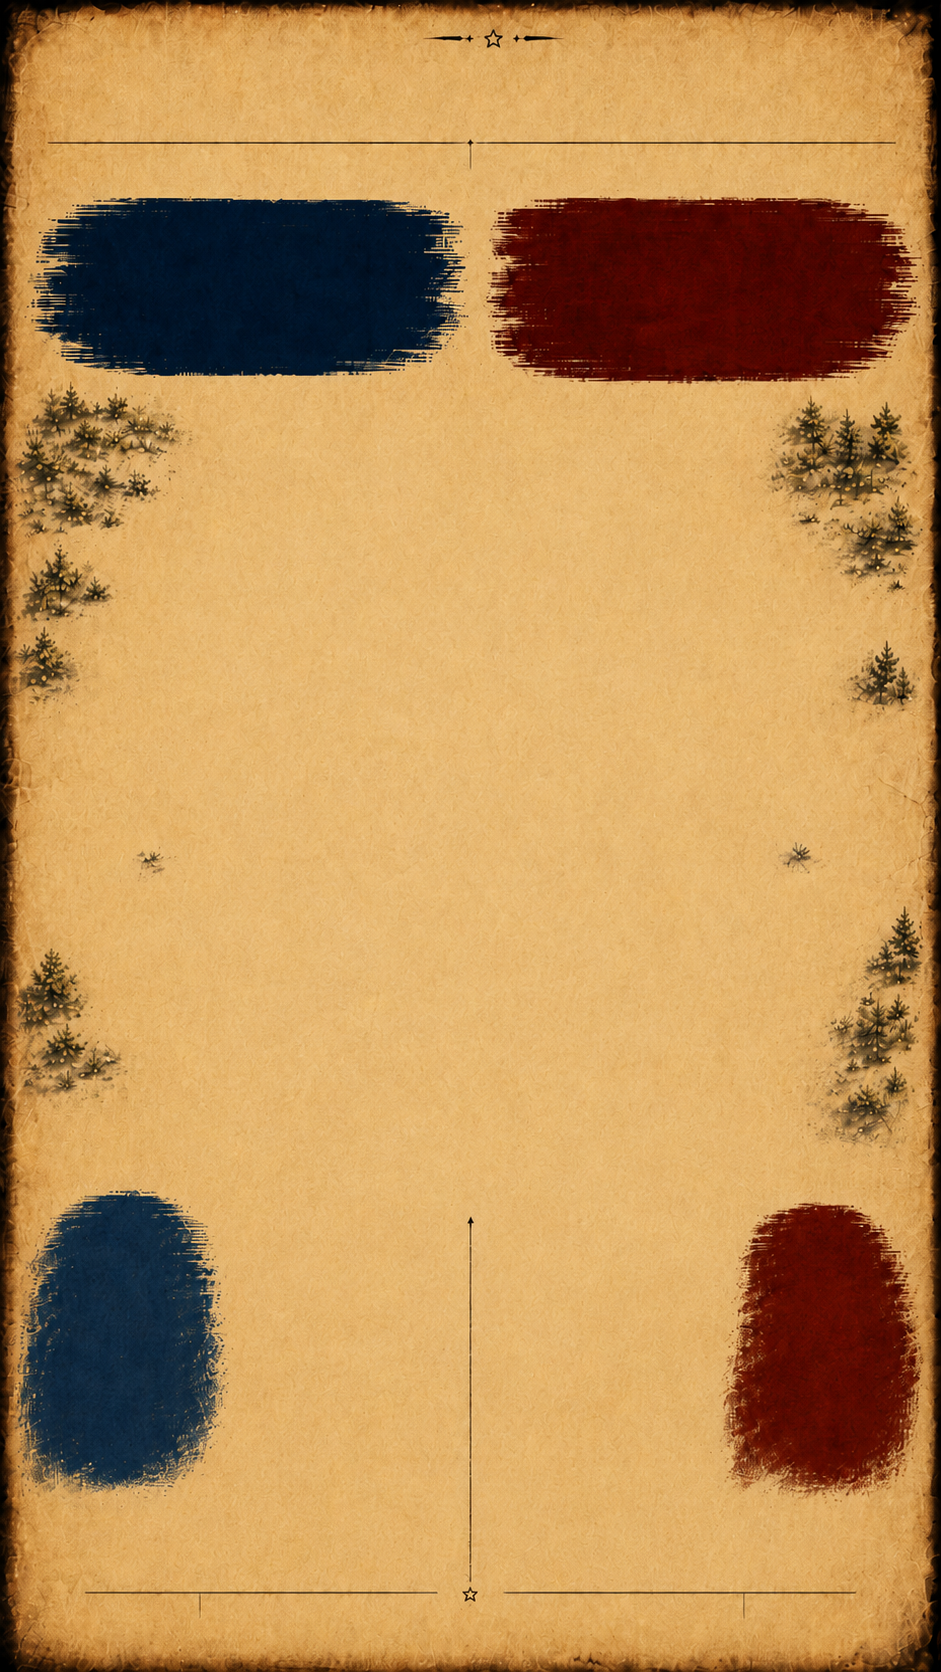
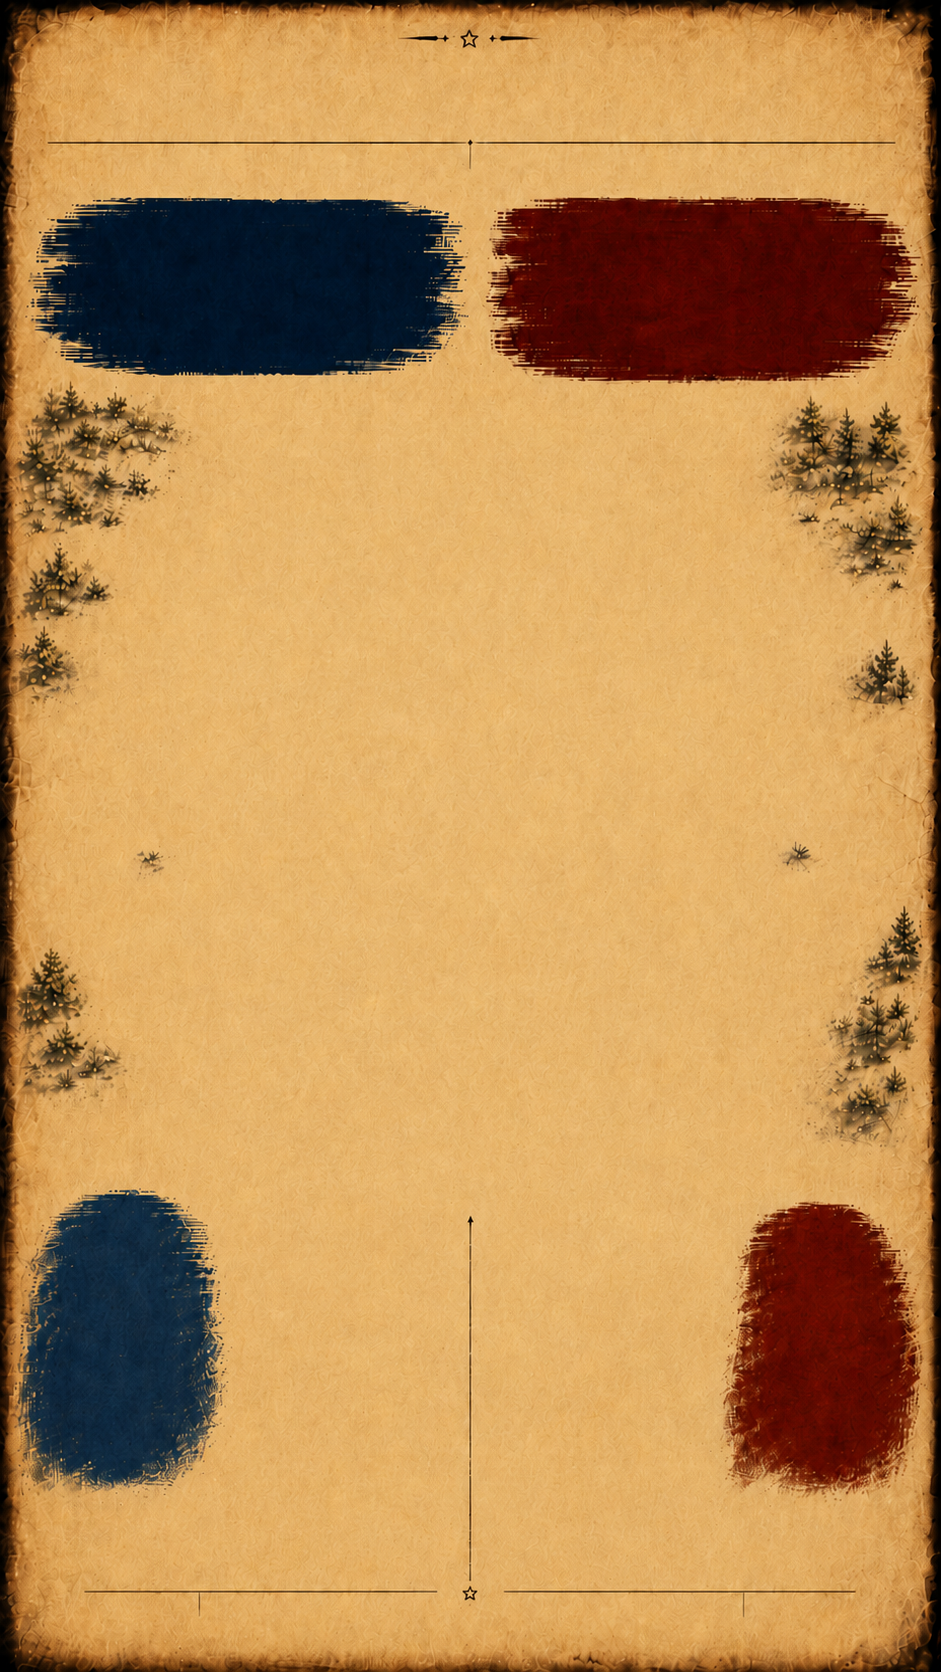
bop bar and assets

diff --git a/styles.css b/styles.css
@@ -664,7 +664,7 @@ select {
 }
 
 .reels-power-bar {
-  height: 22px;
+  height: 44px;
   border-radius: 4px;
   border: 2px solid rgba(42, 29, 17, 0.9);
   background: #1f1812;
@@ -727,7 +727,7 @@ select {
 
 .reels-footer-stats {
   margin-top: auto;
-  padding: 0 56px 10px;
+  padding: 0 56px 36px;
   position: relative;
   z-index: 1;
 }